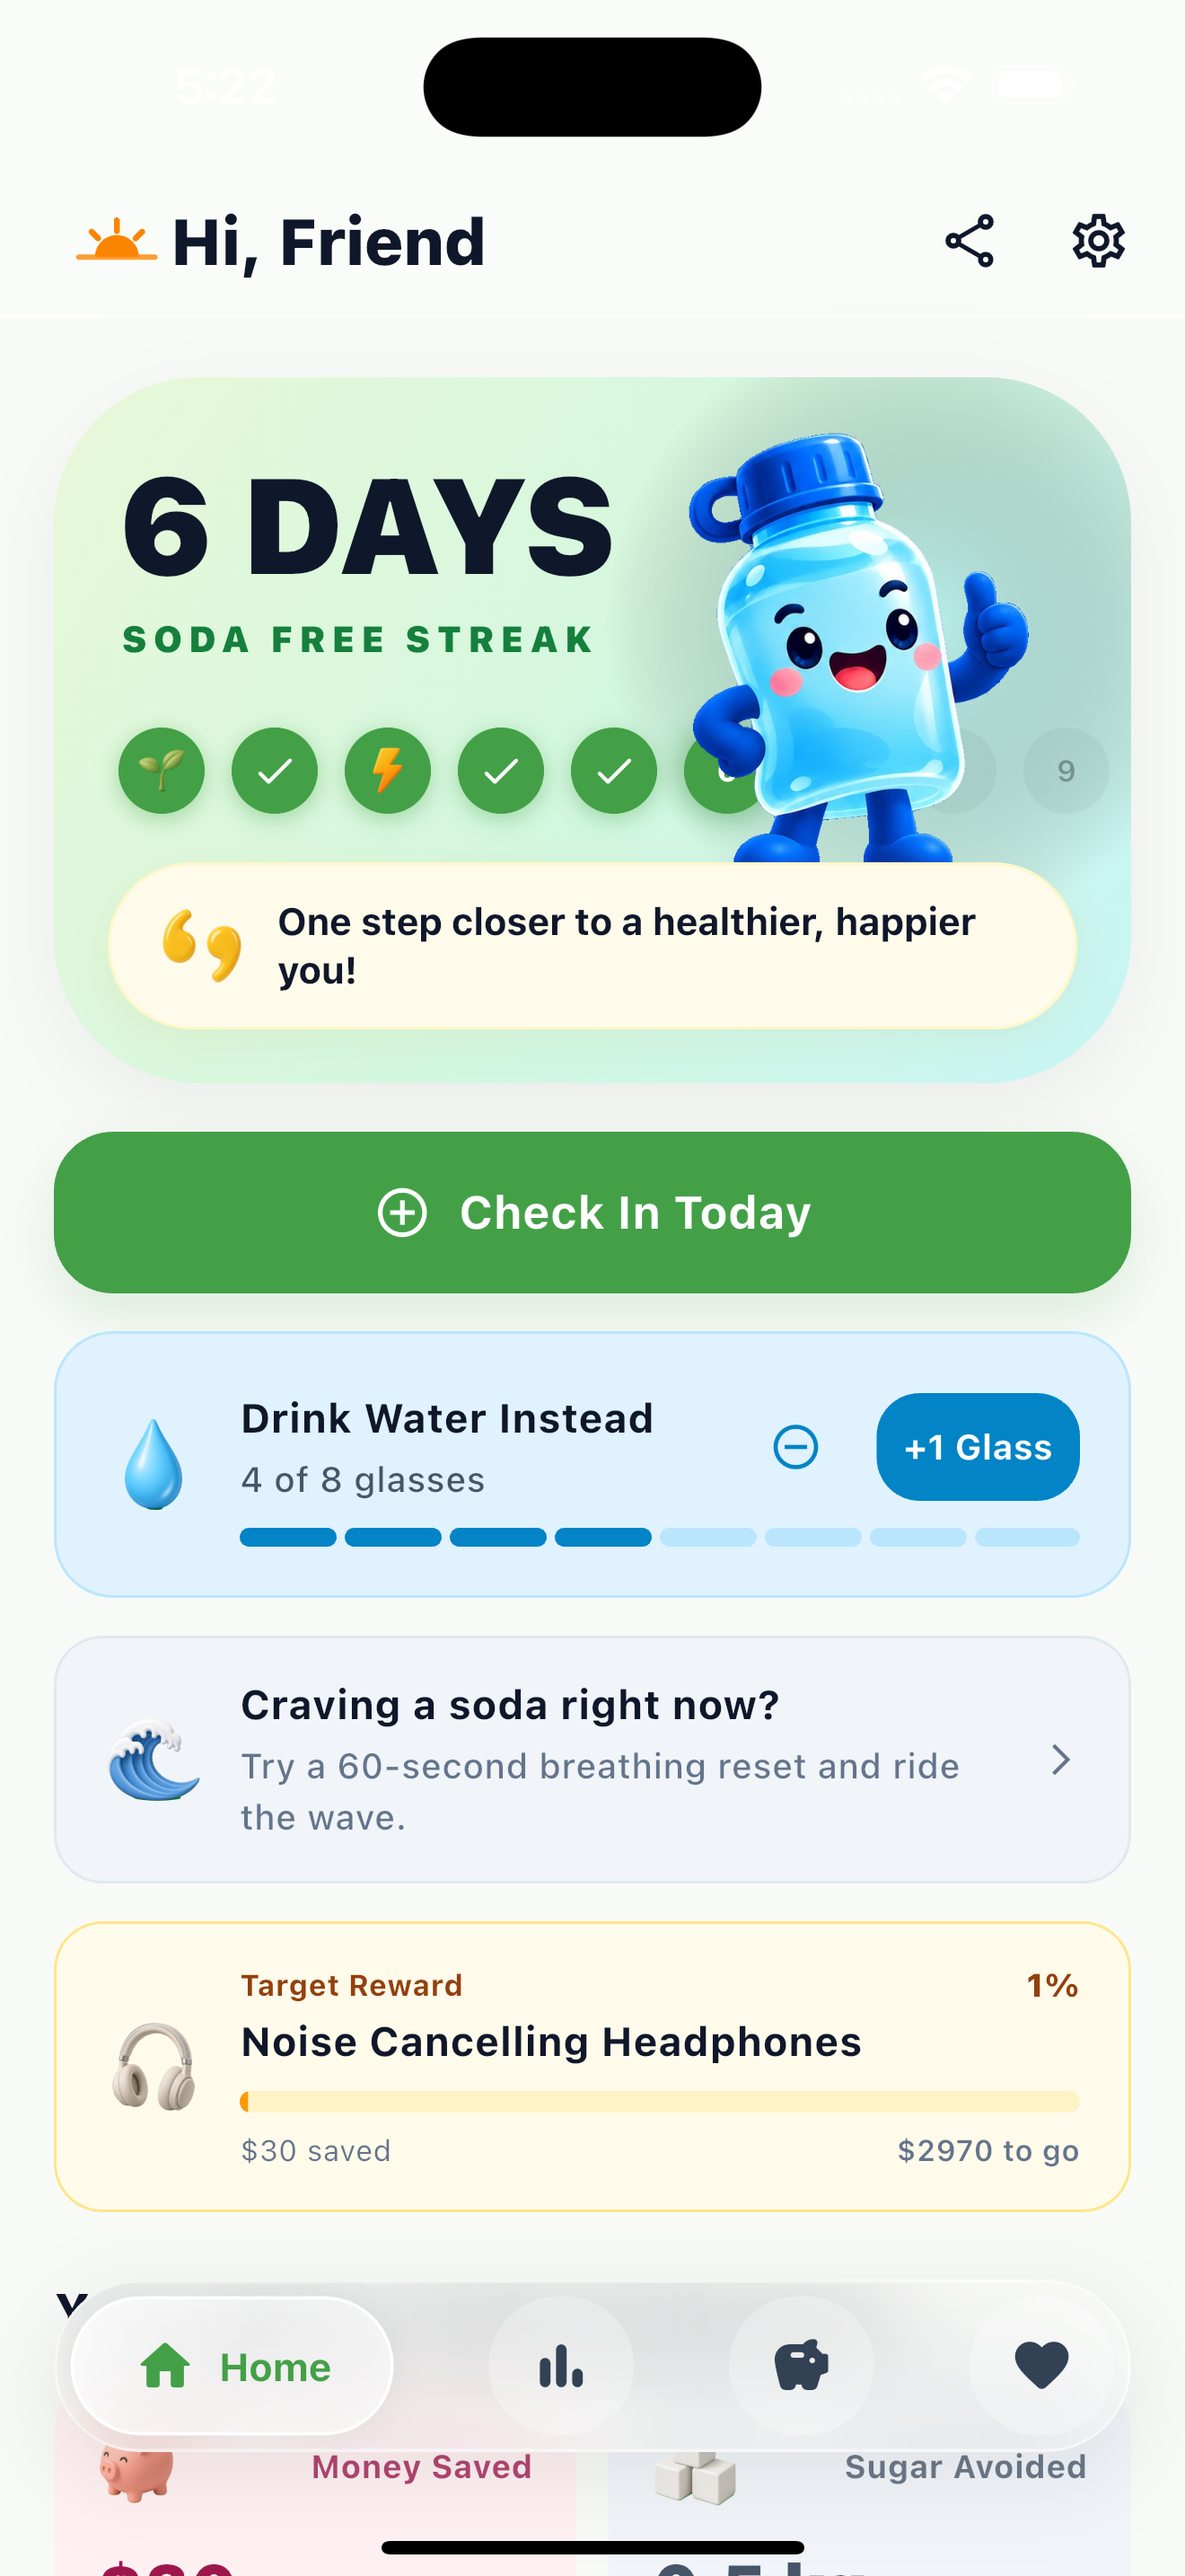
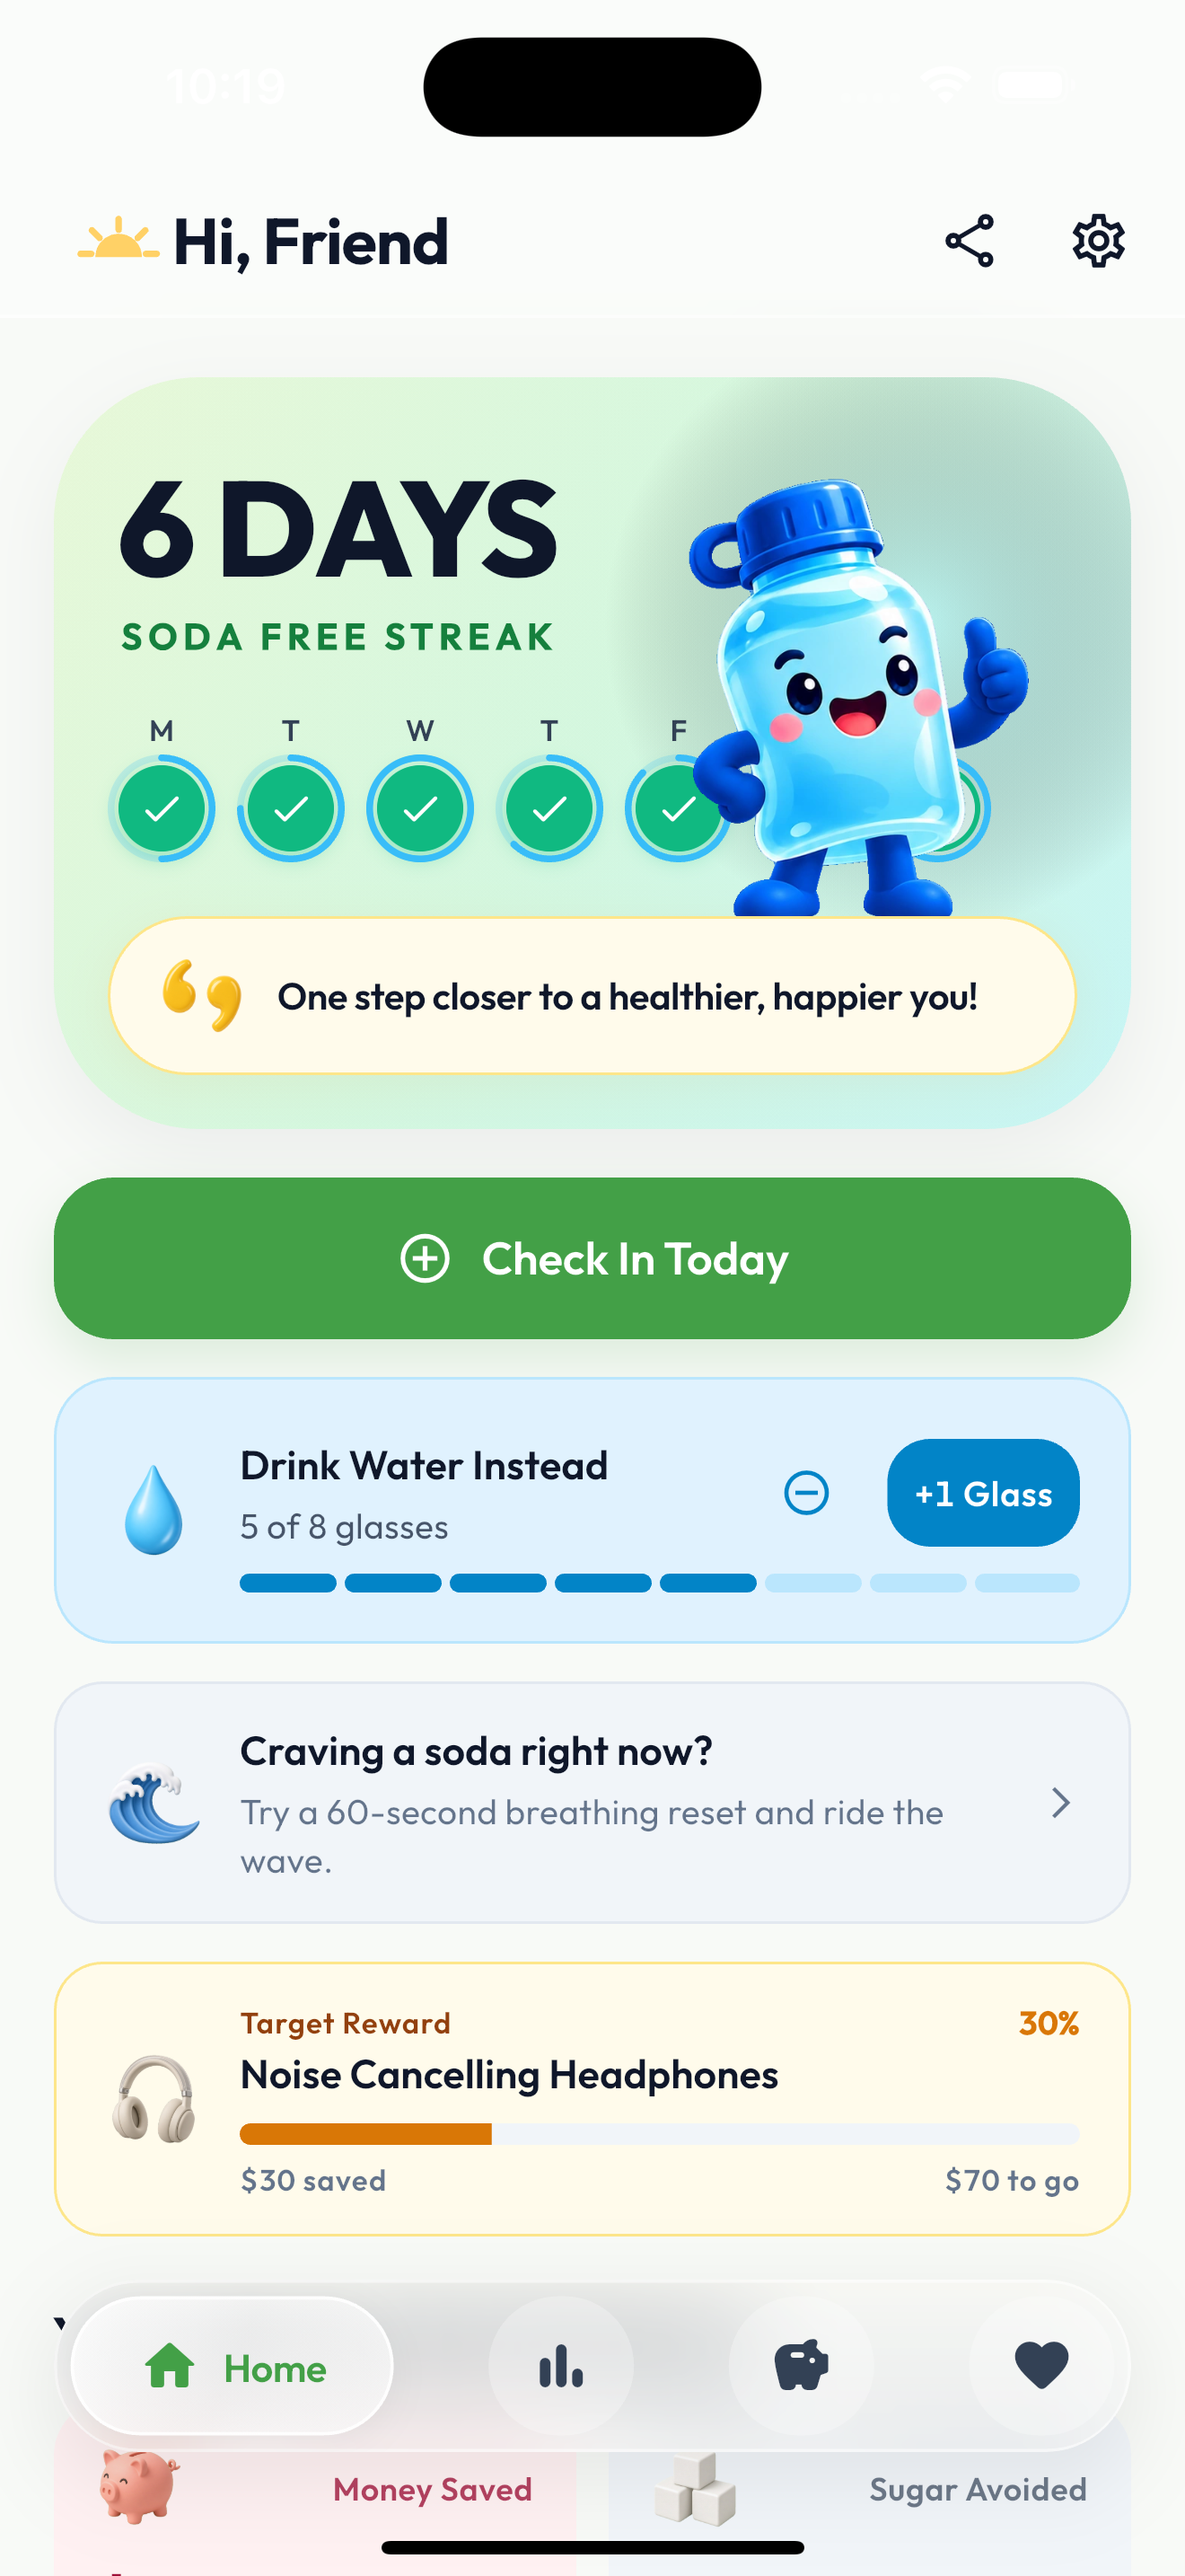
byebyesoda: update app preview screenshot

diff --git a/public/byebyesoda/index.html b/public/byebyesoda/index.html
@@ -178,8 +178,8 @@
             <!-- Phone Frame -->
             <div class="phone-device">
               <div class="screen-container">
-                <img src="images/app-preview.png?v=4" alt="ByeBye Soda Mobile App Interface Screenshot"
-                  class="screenshot-img" loading="eager">
+                src="images/app-preview.png?v=5" alt="ByeBye Soda Mobile App Interface Screenshot"
+                class="screenshot-img" loading="eager">
               </div>
             </div>
           </div>
